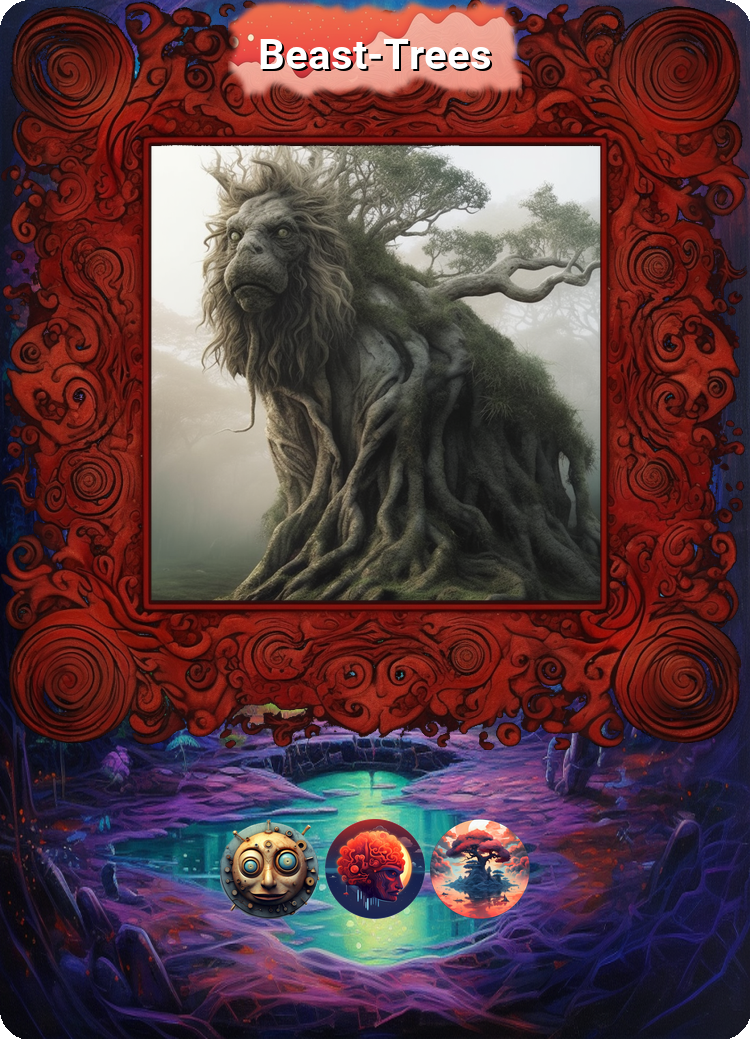
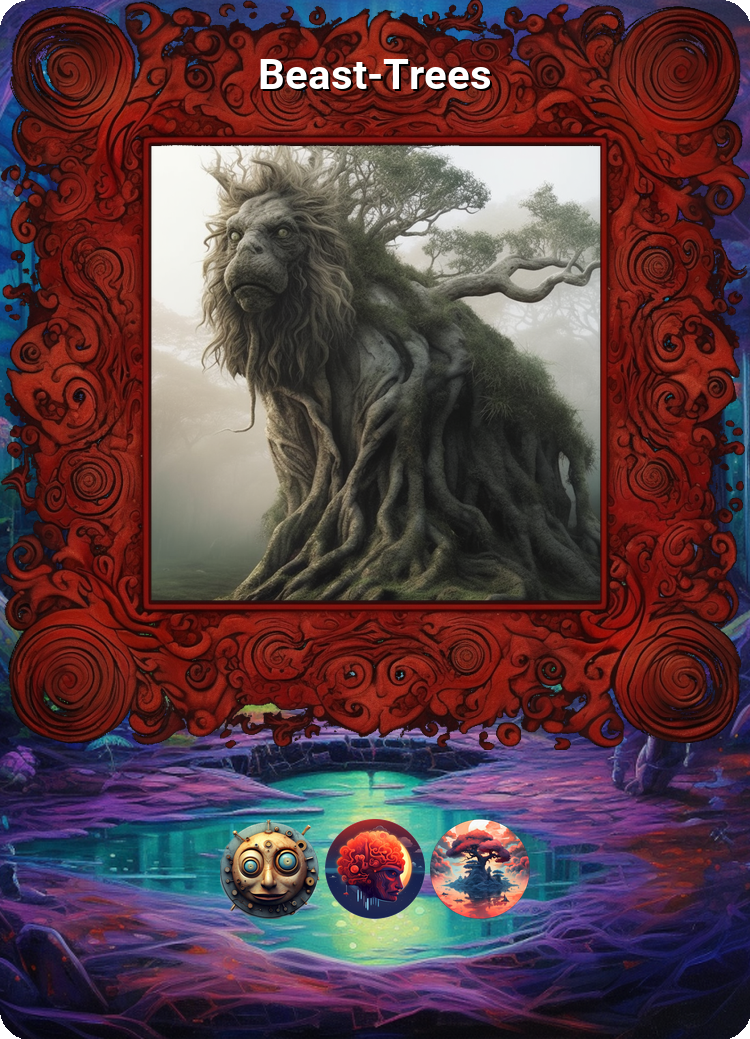
Implemented changes in title positions

Changed region(s): [[0.0, 0.0, 1.0, 1.0], [0.276, 0.0, 0.8893, 0.0924]]

diff --git a/card_elements.py b/card_elements.py
@@ -13,13 +13,14 @@ functions:
 """
 
 from PIL import Image, ImageDraw
-from fonts import load_font
 
 from image_utils import (
     calculate_centered_x,
     calculate_height_of_image_according_to_width,
+    calculate_new_image_dimensions_respecting_aspect_ratio,
     convert_image_to_rgba,
     crop_image,
+    crop_image_to_fit_canvas_dimensions,
     resize_image,
 )
 from text_utils import draw_text_with_shadow
@@ -29,7 +30,8 @@ CROP_MARGIN = 0.07
 CARD_IMAGE_MARGIN = 100
 CARD_IMAGE_DISTANCE_FROM_TOP = 140
 
-TITLE_FONT = load_font("fonts/Roboto-Bold.ttf", 42)
+BIOME_TITLE_Y = 30
+ENCOUNTER_TITLE_Y = 50
 
 
 def get_default_card_dimensions():
@@ -43,16 +45,16 @@ def get_default_card_dimensions():
     return int(63.5 * 300 / 25.4), int(88 * 300 / 25.4)
 
 
-def draw_base_card(background_image_path, width, height):
+def draw_base_card(background_image_path, canvas_width, canvas_height):
     """Loads and resizes the background image
 
     Parameters
     ----------
     background_image_path : str
         The path to the background image
-    width : int
+    canvas_width : int
         The width of the canvas to draw on
-    height : int
+    canvas_height : int
         The height of the canvas to draw on
 
     Returns
@@ -62,7 +64,18 @@ def draw_base_card(background_image_path, width, height):
     draw
         the draw instance that provides draw methods
     """
-    card = Image.open(background_image_path).resize((width, height), Image.LANCZOS)
+
+    background_image = Image.open(background_image_path)
+
+    new_width, new_height = calculate_new_image_dimensions_respecting_aspect_ratio(
+        background_image, canvas_width, canvas_height
+    )
+
+    background_image = background_image.resize((new_width, new_height), Image.LANCZOS)
+
+    card = crop_image_to_fit_canvas_dimensions(
+        background_image, canvas_width, canvas_height
+    )
 
     draw = ImageDraw.Draw(card)
 
@@ -171,28 +184,9 @@ def resize_text_banner(banner_image, title_width, title_height):
     return banner_image.resize((banner_width, banner_height), Image.LANCZOS)
 
 
-def draw_title(title, title_banner_path, canvas_width, card, draw):
-    """Draws the title of the card
-
-    Parameters
-    ----------
-    title : str
-        The title of the card
-    title_banner_path : str
-        The path to the banner that will be drawn behind the title
-    canvas_width : int
-        The width of the canvas where the title will be drawn
-    card : Image
-        The card where the banner will be drawn
-    draw : ImageDraw
-        Offers methods related to drawing
-    """
-
-    # Add title text
-    title_width, title_height = draw.textsize(title, font=TITLE_FONT)
-    title_x = calculate_centered_x(title_width, canvas_width)
-    title_y = 30
-
+def draw_title_banner(
+    title_banner_path, title_x, title_y, title_width, title_height, card
+):
     # Load the banner image
     banner_image = Image.open(title_banner_path)
     banner_image = convert_image_to_rgba(banner_image)
@@ -207,11 +201,47 @@ def draw_title(title, title_banner_path, canvas_width, card, draw):
     # Draw the banner image
     card.paste(banner_image, (banner_x, banner_y), banner_image)
 
+
+class MissingTitleYCoordinateError(Exception):
+    "Raised when 'draw_title' has been called with a dictionary of values that doesn't contain 'title_y'"
+    pass
+
+
+def draw_title(draw_title_parameters):
+    """Draws the title of the card
+
+    Parameters
+    ----------
+    draw_title_parameters : dict
+        A dictionary with all the necessary arguments to draw the title
+    """
+
+    # Add title text
+    title_width, title_height = draw_title_parameters["draw"].textsize(
+        draw_title_parameters["title"], draw_title_parameters["font"]
+    )
+    title_x = calculate_centered_x(title_width, draw_title_parameters["canvas_width"])
+
+    if "title_y" not in draw_title_parameters:
+        raise MissingTitleYCoordinateError(
+            "The dictionary passed to 'draw_title' doesn't contain the key 'title_y'."
+        )
+
+    if draw_title_parameters["title_banner_path"] is not None:
+        draw_title_banner(
+            draw_title_parameters["title_banner_path"],
+            title_x,
+            draw_title_parameters["title_y"],
+            title_width,
+            title_height,
+            draw_title_parameters["card"],
+        )
+
     draw_text_with_shadow(
-        draw,
-        title,
-        (title_x, title_y),
-        TITLE_FONT,
+        draw_title_parameters["draw"],
+        draw_title_parameters["title"],
+        (title_x, draw_title_parameters["title_y"]),
+        draw_title_parameters["font"],
         fill="white",
         shadow_offset=2,
         shadow_opacity=128,

diff --git a/card_generation.py b/card_generation.py
@@ -17,6 +17,9 @@ import toml
 from PIL import Image
 
 from card_elements import (
+    BIOME_TITLE_Y,
+    ENCOUNTER_TITLE_Y,
+    MissingTitleYCoordinateError,
     convert_image_to_rgba,
     draw_base_card,
     draw_card_frame,
@@ -24,6 +27,7 @@ from card_elements import (
     draw_title,
     get_default_card_dimensions,
 )
+from fonts import BIOME_TITLE_FONT, ENCOUNTER_TITLE_FONT
 from image_utils import (
     apply_rounded_corners_to_card,
 )
@@ -71,20 +75,19 @@ def create_biome_card():
 
     title = biome_data["title"]
     background_image_path = biome_data["paths"]["background_image_path"]
-    title_banner_path = biome_data["paths"]["title_banner_path"]
-    card_image_path = biome_data["paths"]["card_image_path"]
-    card_image_frame_path = biome_data["paths"]["card_image_frame_path"]
     biome_type_path = biome_data["paths"]["biome_type_path"]
 
     image_paths = {
         "background_image_path": background_image_path,
-        "title_banner_path": title_banner_path,
-        "card_image_path": card_image_path,
-        "card_image_frame_path": card_image_frame_path,
         "biome_type_path": biome_type_path,
     }
 
-    create_card(title, image_paths, "biome")
+    try:
+        create_card(title, image_paths, "biome")
+    except MissingTitleYCoordinateError as exception:
+        raise MissingTitleYCoordinateError(
+            f"Failed to create a card from 'create_biome_card'. Error: {exception}"
+        )
 
 
 def create_encounter_card():
@@ -94,7 +97,7 @@ def create_encounter_card():
 
     title = encounter_data["title"]
     background_image_path = encounter_data["paths"]["background_image_path"]
-    title_banner_path = encounter_data["paths"]["title_banner_path"]
+    # title_banner_path = encounter_data["paths"]["title_banner_path"]
     card_image_path = encounter_data["paths"]["card_image_path"]
     card_image_frame_path = encounter_data["paths"]["card_image_frame_path"]
     struggle_icon_paths = [
@@ -103,13 +106,18 @@ def create_encounter_card():
 
     image_paths = {
         "background_image_path": background_image_path,
-        "title_banner_path": title_banner_path,
+        # "title_banner_path": title_banner_path,
         "card_image_path": card_image_path,
         "card_image_frame_path": card_image_frame_path,
         "struggle_icon_paths": struggle_icon_paths,
     }
 
-    create_card(title, image_paths, "encounter")
+    try:
+        create_card(title, image_paths, "encounter")
+    except MissingTitleYCoordinateError as exception:
+        raise MissingTitleYCoordinateError(
+            f"Failed to create a card from 'create_encounter_card'. Error: {exception}"
+        )
 
 
 def create_card(title, image_paths, card_type):
@@ -130,16 +138,44 @@ def create_card(title, image_paths, card_type):
         image_paths["background_image_path"], canvas_width, canvas_height
     )
 
-    # Load the card image and convert to RGBA mode if necessary
-    draw_card_image(
-        card,
-        convert_image_to_rgba(Image.open(image_paths["card_image_path"])),
-        canvas_width,
-    )
+    if "card_image_path" in image_paths.keys():
+        draw_card_image(
+            card,
+            convert_image_to_rgba(Image.open(image_paths["card_image_path"])),
+            canvas_width,
+        )
 
-    draw_card_frame(image_paths["card_image_frame_path"], card, canvas_width)
+    if "card_image_frame_path" in image_paths.keys():
+        draw_card_frame(image_paths["card_image_frame_path"], card, canvas_width)
 
-    draw_title(title, image_paths["title_banner_path"], canvas_width, card, draw)
+    if card_type == "encounter":
+        font = ENCOUNTER_TITLE_FONT
+        title_y = ENCOUNTER_TITLE_Y
+    elif card_type == "biome":
+        font = BIOME_TITLE_FONT
+        title_y = BIOME_TITLE_Y
+
+    title_banner_path = None
+
+    if "title_banner_path" in image_paths.keys():
+        title_banner_path = image_paths["title_banner_path"]
+
+    draw_title_parameters = {
+        "title": title,
+        "title_banner_path": title_banner_path,
+        "font": font,
+        "canvas_width": canvas_width,
+        "card": card,
+        "draw": draw,
+        "title_y": title_y,
+    }
+
+    try:
+        draw_title(draw_title_parameters)
+    except MissingTitleYCoordinateError as exception:
+        raise MissingTitleYCoordinateError(
+            f"Failed to draw the title of the card from 'create_card'. Error: {exception}"
+        )
 
     if "biome_type_path" in image_paths.keys():
         draw_icons(

diff --git a/image_utils.py b/image_utils.py
@@ -98,6 +98,20 @@ def apply_rounded_corners_to_card(card):
     card.putalpha(create_mask_with_rounded_corners(card.width, card.height))
 
 
+def calculate_new_image_dimensions_respecting_aspect_ratio(
+    image, canvas_width, canvas_height
+):
+    bg_width, bg_height = image.size
+
+    scale_factor_w = canvas_width / bg_width
+    scale_factor_h = canvas_height / bg_height
+    scale_factor = max(scale_factor_w, scale_factor_h)
+    new_width = int(bg_width * scale_factor)
+    new_height = int(bg_height * scale_factor)
+
+    return new_width, new_height
+
+
 def calculate_centered_x(image_width, canvas_width):
     return (canvas_width - image_width) // 2
 
@@ -114,6 +128,15 @@ def crop_image(card_image, canvas_width, calculated_card_image_width, crop_margi
     )
 
     return card_image, calculated_card_image_x
+
+
+def crop_image_to_fit_canvas_dimensions(image, canvas_width, canvas_height):
+    left = (image.width - canvas_width) / 2
+    top = (image.height - canvas_height) / 2
+    right = (image.width + canvas_width) / 2
+    bottom = (image.height + canvas_height) / 2
+
+    return image.crop((left, top, right, bottom))
 
 
 def crop_outer_boundaries_of_image(image, crop_margin):

diff --git a/main.py b/main.py
@@ -1,6 +1,7 @@
 import argparse
+from card_elements import MissingTitleYCoordinateError
 
-from card_generation import create_biome_card, create_card, create_encounter_card
+from card_generation import create_biome_card, create_encounter_card
 
 RAW_IMAGES_DIRECTORY = "raw_images"
 
@@ -18,12 +19,16 @@ def main():
         print("Error: The name of the type of card to create can't be empty")
         return
 
-    if args.type_of_card == "encounter":
-        create_encounter_card()
-    elif args.type_of_card == "biome":
-        create_biome_card()
-    else:
-        print(f"Not implemented for type of card '{args.type_of_card}'")
+    try:
+        if args.type_of_card == "encounter":
+            create_encounter_card()
+        elif args.type_of_card == "biome":
+            create_biome_card()
+        else:
+            print(f"Not implemented for type of card '{args.type_of_card}'")
+            return
+    except MissingTitleYCoordinateError as exception:
+        print(f"Failed to create a card from main. Error: {exception}")
         return
 
 

diff --git a/icons.py b/icons.py
@@ -5,7 +5,7 @@ from image_utils import calculate_centered_x, convert_image_to_rgba
 BIOME_TYPE_ICON_SIZE = 200
 STRUGGLE_ICON_SIZE = 100
 STRUGGLE_ICON_DISTANCE_FROM_BOTTOM = 220
-BIOME_TYPE_ICON_DISTANCE_FROM_BOTTOM = 300
+BIOME_TYPE_ICON_DISTANCE_FROM_BOTTOM = 350
 
 
 def draw_row_of_icons(icon_paths, icon_size, starting_x, icons_y, card, gap=5):

diff --git a/fonts.py b/fonts.py
@@ -17,3 +17,7 @@ def load_font(font_path, size):
         the loaded font
     """
     return ImageFont.truetype(font_path, size)
+
+
+BIOME_TITLE_FONT = load_font("fonts/Roboto-Bold.ttf", 60)
+ENCOUNTER_TITLE_FONT = load_font("fonts/Roboto-Bold.ttf", 42)
